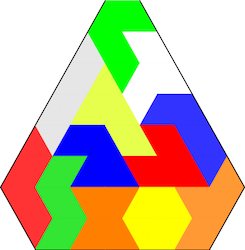
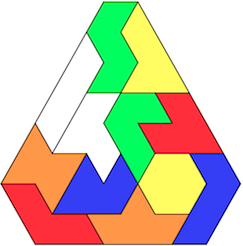
nicer example solution

diff --git a/README.md b/README.md
@@ -28,14 +28,14 @@ Example solution and corresponding encoding:
       <img src="https://raw.githubusercontent.com/corinaminer/triangle-puzzle/master/assets/example_solution.png"/>
     </td>
     <td>
-      <pre>      111
-     91133
-    99b1333
-   99bbb3888
-  69222bb0088
- 667722200008a
- 6677444555aaa
-  677444555aa</pre>
+      <pre>      77b
+     977bb
+    9977bbb
+   993311100
+  49333110000
+ 4444232155588
+ 6642222a55588
+  6666aaaaa88</pre>
     </td>
   </tr>
 </table>
